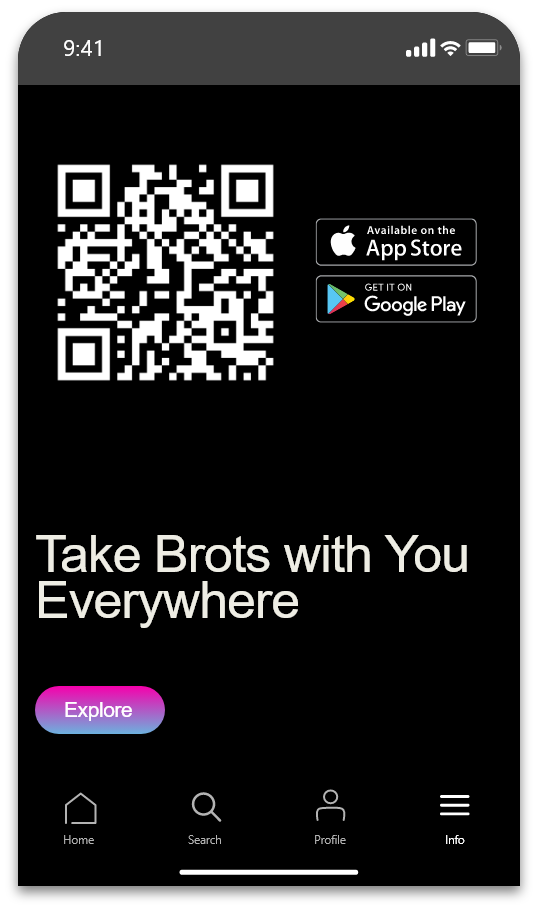
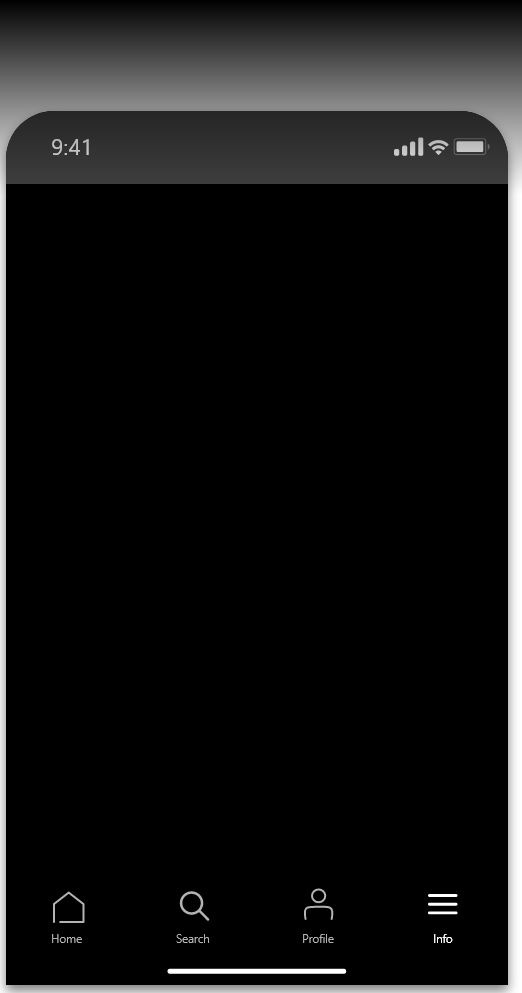
asd

diff --git a/components/Landing/MobileApp.jsx b/components/Landing/MobileApp.jsx
@@ -5,7 +5,7 @@ const MobileApp = () => {
     <div className="wrapper mt-[150px] lg:mt-[200px] bg-mob bg-cover lg:bg-contain bg-top bg-no-repeat">
       <div className="contain justify-center items-start">
         <div className="flex lg:flex-row flex-col w-full max-w-[1600px] justify-start items-center lg:items-end gap-10">
-          <div className="relative">
+          <div className="relative w-full sm:w-auto sm:min-w-[500px]">
             <Image
               alt=".."
               src={"/mobile.png"}
@@ -13,8 +13,17 @@ const MobileApp = () => {
               height={870}
               style={{ objectFit: "contain" }}
             />
-            {/* <div className="flex justify-start absolute top-[22%] right-[7%] items-center w-max flex-col gap-4">
-              <button className="bg-black border-[1px] w-full border-solid border-[#707070] rounded flex justify-center items-center gap-3 px-4 py-3">
+            <div className="absolute sm:block hidden left-[5%] top-[22%]">
+              <Image src={"/qr2.png"} width={230} height={230} />
+            </div>
+            <div className="flex justify-start absolute top-[28%] right-1/2  translate-x-1/2 sm:translate-x-0 sm:right-[7%] items-center w-max flex-col gap-4">
+              <a target={"_blank"} href="#">
+                <Image width={161} height={50} src="/btn1.png" />
+              </a>
+              <a target={"_blank"} href="#">
+                <Image width={161} height={50} src="/btn2.png" />
+              </a>
+              {/* <button className="bg-black border-[1px] w-full border-solid border-[#707070] rounded flex justify-center items-center gap-3 px-4 py-3">
                 <Image src={"/apple.png"} width={30} height={30} />
                 <div className="flex justify-start items-start flex-col">
                   <p className="text-white font-medium text-xs leading-[1]">
@@ -31,8 +40,16 @@ const MobileApp = () => {
                   </p>
                   <p className="text-white font-bold text-xl">Google Play</p>
                 </div>
+              </button> */}
+            </div>
+            <div className="flex justify-start items-start flex-col bottom-[14%] absolute left-[5%] gap-[30px] sm:gap-[70px]">
+              <h2 className="text-[29px] sm:text-[47px] font-medium text-white ">
+                Take Brots with You Everywhere
+              </h2>
+              <button className="bg-btnGr w-[130px] h-[50px] text-white border-none rounded-full cursor-pointer text-[21px] font-medium">
+                Explore
               </button>
-            </div> */}
+            </div>
           </div>
           <p className="text-cream  text-[25px] lg:block hidden max-w-[500px] 1xl:max-w-[830px]">
             Available on both iOS and Android, our app makes it easy to browse

diff --git a/tailwind.config.js b/tailwind.config.js
@@ -14,6 +14,7 @@ module.exports = {
         druk: ["Druk", ...defaultTheme.fontFamily.serif],
       },
       backgroundImage: {
+        btnGr: "linear-gradient(to bottom,#F600AC,#6CB1DE)",
         btnHover: "linear-gradient(to right, #a9e1fc, #e400ed)",
         heroMob: "url('/hero-mobile.jpg')",
         heroMid: "url('/hero-1920.jpg')",
